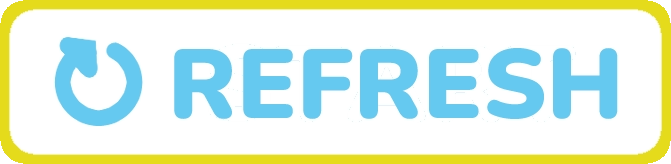
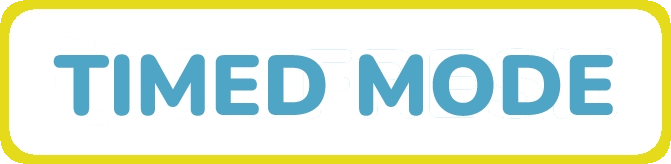
updated button

diff --git a/style.css b/style.css
@@ -90,7 +90,7 @@ p {
 	cursor: pointer;
 }
 
-/* #infoButton {
+#infoButton {
 	position: absolute;
 	width: 50px;
 	height: 50px;
@@ -105,6 +105,7 @@ p {
 }
 
 #infoBackground {
+	position: absolute;
 	opacity: 1;
 	padding: 100px;
 	width: 750px;
@@ -112,7 +113,6 @@ p {
 	top: 50%;
 	left: 50%;
 	transform: translate(-50%, 150%);
-	transition: 0.5s ease-in-out;
 	z-index: 2;
 
 	background-image: url("./public/images/ui/popup.webp") no-repeat center fixed;
@@ -136,7 +136,7 @@ p {
 	justify-content: space-around;
 	align-content: center;
 	z-index: 2;
-} */
+}
 
 #menu {
 	position: absolute;

diff --git a/game.js b/game.js
@@ -7,7 +7,7 @@ const comboBox = document.getElementById("combo");
 const settings = document.getElementById("settingsButton");
 const infoButton = document.getElementById("infoButton");
 const menu = document.getElementById("menu");
-const info = document.getElementById("infoCard");
+const info = document.getElementById("infoBackground");
 const infoOverlay = document.getElementById("infoOverlay");
 const menuOverlay = document.getElementById("menuOverlay");
 const bgmSlider = document.getElementById("bgmInput");
@@ -2299,7 +2299,7 @@ function openInfo() {
     if (!infoVisable) {
         infoVisable = true;
         info.style.opacity = "1";
-        info.style.transform = "translate(-50%, 200%)";
+        info.style.transform = "translate(-50%, -50%)";
         infoOverlay.style.width = "100%";
     } else {
         closeInfo();

diff --git a/index.html b/index.html
@@ -84,7 +84,7 @@
 							</div>
 						</div>
 					</div>
-				</div> -->
+				</div>-->
 				
 				<div id="countdownContainer" class="overlay prevent-select">
 					<p id="countdownLabel" class="overlayLabel">